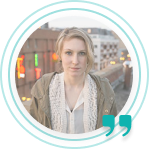
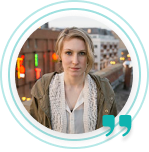
edit active slide detailes to make image size bigger and text

diff --git a/src/components/homepageourtestimonialssection/index.js b/src/components/homepageourtestimonialssection/index.js
@@ -1,12 +1,14 @@
 import { CardMedia, Container, Stack, Typography } from "@mui/material";
-import React from "react";
+import React, { useState } from "react";
 import Testimonial1 from "../../assets/testimonial1.png";
 import Testimonial2 from "../../assets/testimonial2.png";
 import Testimonial3 from "../../assets/testimonial3.png";
+import Testimonial4 from "../../assets/testimonial4.png";
+import Testimonial5 from "../../assets/testimonial5.png";
 
-import { Swiper, SwiperSlide } from "swiper/react";
 import "swiper/css";
 import "swiper/css/pagination";
+import { Swiper, SwiperSlide } from "swiper/react";
 
 import styles from "./index.module.css";
 
@@ -15,30 +17,35 @@ const testimonials = [
   {
     image: Testimonial1,
     description:
-      "Dive into the world of Learning Management Systems (LMS) and discover how they revolutionize education. Explore the benefits, features, and implementation of LMS .",
+      "Dive into the world of Learning Management Systems (LMS) and discover how they revolutionize education. Explore the benefits, features, and implementation of LMS.",
   },
   {
     image: Testimonial2,
     description:
-      "Dive into the world of Learning Management Systems (LMS) and discover how they revolutionize education. Explore the benefits, features, and implementation of LMS .",
+      "Dive into the world of Learning Management Systems (LMS) and discover how they revolutionize education. Explore the benefits, features, and implementation of LMS.",
   },
   {
-    image: Testimonial1,
+    image: Testimonial4,
     description:
-      "Dive into the world of Learning Management Systems (LMS) and discover how they revolutionize education. Explore the benefits, features, and implementation of LMS .",
+      "Dive into the world of Learning Management Systems (LMS) and discover how they revolutionize education. Explore the benefits, features, and implementation of LMS.",
   },
   {
     image: Testimonial3,
     description:
-      "Dive into the world of Learning Management Systems (LMS) and discover how they revolutionize education. Explore the benefits, features, and implementation of LMS .",
+      "Dive into the world of Learning Management Systems (LMS) and discover how they revolutionize education. Explore the benefits, features, and implementation of LMS.",
   },
   {
-    image: Testimonial2,
+    image: Testimonial5,
     description:
-      "Dive into the world of Learning Management Systems (LMS) and discover how they revolutionize education. Explore the benefits, features, and implementation of LMS .",
+      "Dive into the world of Learning Management Systems (LMS) and discover how they revolutionize education. Explore the benefits, features, and implementation of LMS.",
   },
 ];
 const OurTestimonials = () => {
+  const [activeSlideIndex, setActiveSlideIndex] = useState(1);
+
+  const handleSlideChange = (swiper) => {
+    setActiveSlideIndex(swiper.activeIndex + 1);
+  };
   return (
     <Container>
       <Typography variant="h4" textAlign="center">
@@ -46,18 +53,27 @@ const OurTestimonials = () => {
       </Typography>
       <Swiper
         slidesPerView={3}
-        spaceBetween={20}
+        spaceBetween={"10%"}
         pagination={{
           clickable: true,
         }}
         modules={[Pagination]}
         className={styles.swiper}
+        onSlideChange={handleSlideChange}
       >
         {testimonials.map((item, index) => (
           <SwiperSlide key={index}>
-            <Stack alignItems="center" spacing={2}>
-              <CardMedia sx={{ height: 100, width: 100 }} image={item.image} />
-              <Typography textAlign="center">{item.description}</Typography>
+            <Stack
+              alignItems="center"
+              spacing={3}
+              className={`${styles.swiperSlide} ${
+                index === activeSlideIndex ? styles.activeSlide : ""
+              }`}
+            >
+              <img src={item.image} />
+              <Typography width={"90%"} variant="caption" textAlign="center">
+                {item.description}
+              </Typography>
             </Stack>
           </SwiperSlide>
         ))}

diff --git a/src/components/homepageourtestimonialssection/index.module.css b/src/components/homepageourtestimonialssection/index.module.css
@@ -1,25 +1,23 @@
+.swiper {
+  width: 90%;
+  padding: 100px 0px;
+  height: 90%;
+}
 
-  .swiper {
-    width: 100%;
-    padding: 100px 0px;
-    height: 100%;
-  }
-  
-  .swiper-slide {
-    text-align: center;
-    font-size: 18px;
-    background: #fff;
-  
-    /* Center slide text vertically */
-    display: flex;
-    justify-content: center;
-    align-items: center;
-  }
-  
-  .swiper-slide img {
-    display: block;
-    width: 100%;
-    height: 100%;
-    object-fit: cover;
-  }
-  
+
+.swiperSlide img {
+  width: 90;
+  height: 90;
+  opacity: 0.7;
+}
+
+.activeSlide {
+  transform: scale(1.2);
+}
+
+.activeSlide img {
+  opacity: 1;
+  width: 100;
+  height: 100;
+
+}
